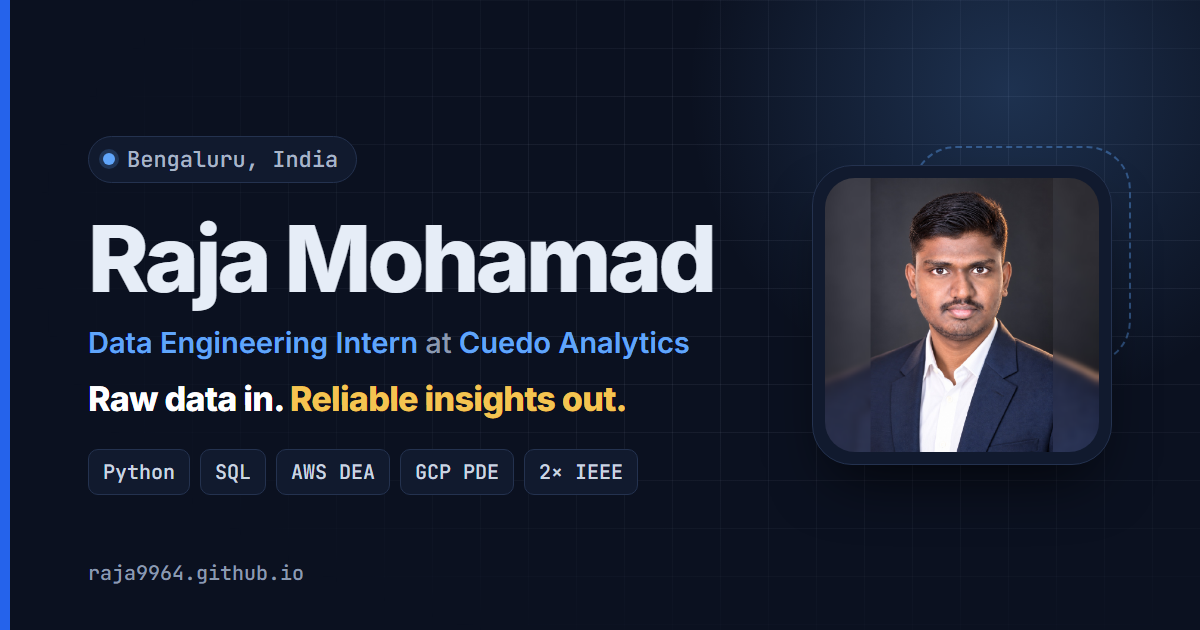
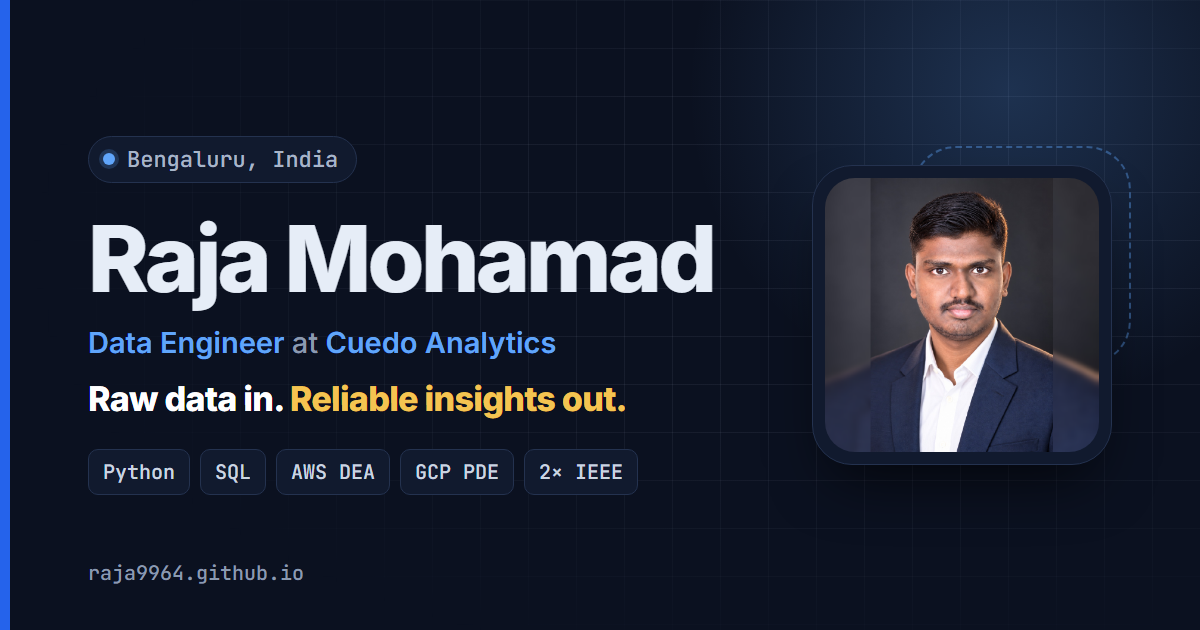
Update role to Data Engineer

Changed region(s): [[0.2158, 0.5127, 0.5858, 0.573]]

diff --git a/index.html b/index.html
@@ -4,7 +4,7 @@
   <meta charset="utf-8">
   <meta name="viewport" content="width=device-width, initial-scale=1">
   <title>Raja Mohamad | Data Engineering Portfolio</title>
-  <meta name="description" content="Raja Mohamad, Data Engineering Intern at Cuedo Analytics in Bengaluru. AWS Certified Data Engineer – Associate, Google Cloud Professional Data Engineer and co-author of two IEEE papers. Python, SQL, AWS and dbt pipelines.">
+  <meta name="description" content="Raja Mohamad, Data Engineer at Cuedo Analytics in Bengaluru. AWS Certified Data Engineer – Associate, Google Cloud Professional Data Engineer and co-author of two IEEE papers. Python, SQL, AWS and dbt pipelines.">
   <meta name="author" content="Raja Mohamad">
   <link rel="canonical" href="https://raja9964.github.io/">
   <meta name="color-scheme" content="light dark">
@@ -13,19 +13,19 @@
   <meta property="og:type" content="website">
   <meta property="og:site_name" content="Raja Mohamad">
   <meta property="og:title" content="Raja Mohamad | Data Engineering Portfolio">
-  <meta property="og:description" content="Data Engineering Intern at Cuedo Analytics. AWS + Google Cloud certified data engineering, 2× IEEE published. Raw data in. Reliable insights out.">
+  <meta property="og:description" content="Data Engineer at Cuedo Analytics. AWS + Google Cloud certified data engineering, 2× IEEE published. Raw data in. Reliable insights out.">
   <meta property="og:url" content="https://raja9964.github.io/">
   <meta property="og:image" content="https://raja9964.github.io/assets/img/og-image.png">
   <meta property="og:image:type" content="image/png">
   <meta property="og:image:width" content="1200">
   <meta property="og:image:height" content="630">
-  <meta property="og:image:alt" content="Raja Mohamad, Data Engineering Intern at Cuedo Analytics">
+  <meta property="og:image:alt" content="Raja Mohamad, Data Engineer at Cuedo Analytics">
   <meta property="og:locale" content="en_IN">
   <meta name="twitter:card" content="summary_large_image">
   <meta name="twitter:title" content="Raja Mohamad | Data Engineering Portfolio">
-  <meta name="twitter:description" content="Data Engineering Intern at Cuedo Analytics. AWS + Google Cloud certified data engineering, 2× IEEE published. Raw data in. Reliable insights out.">
+  <meta name="twitter:description" content="Data Engineer at Cuedo Analytics. AWS + Google Cloud certified data engineering, 2× IEEE published. Raw data in. Reliable insights out.">
   <meta name="twitter:image" content="https://raja9964.github.io/assets/img/og-image.png">
-  <meta name="twitter:image:alt" content="Raja Mohamad, Data Engineering Intern at Cuedo Analytics">
+  <meta name="twitter:image:alt" content="Raja Mohamad, Data Engineer at Cuedo Analytics">
 
   <link rel="icon" href="favicon.svg" type="image/svg+xml">
   <link rel="apple-touch-icon" href="assets/img/apple-touch-icon.png">
@@ -47,9 +47,9 @@
   <link rel="preconnect" href="https://fonts.gstatic.com" crossorigin>
   <link rel="stylesheet" href="https://fonts.googleapis.com/css2?family=Inter:wght@400;500;600;700;800&family=JetBrains+Mono:wght@500;600&display=swap">
   <link rel="preload" as="image" href="assets/img/avatar-460.webp" type="image/webp">
-  <link rel="stylesheet" href="assets/css/styles.css?v=20261005a">
-  <script src="assets/js/data.js?v=20261005a" defer></script>
-  <script src="assets/js/main.js?v=20261005a" defer></script>
+  <link rel="stylesheet" href="assets/css/styles.css?v=20261007a">
+  <script src="assets/js/data.js?v=20261007a" defer></script>
+  <script src="assets/js/main.js?v=20261007a" defer></script>
 </head>
 <body>
   <a class="skip-link" href="#main">Skip to content</a>

diff --git a/assets/js/data.js b/assets/js/data.js
@@ -1,7 +1,7 @@
 // All the content on the site lives here. Edit, save, refresh.
 window.SITE_DATA = {
   name: "Raja Mohamad",
-  role: "Data Engineering Intern",
+  role: "Data Engineer",
   company: "Cuedo Analytics",
   location: "Bengaluru, India",
   tagline: "Raw data in. Reliable insights out.",
@@ -36,14 +36,14 @@ window.SITE_DATA = {
   ],
 
   about: [
-    "I'm a Data Engineering Intern at Cuedo Analytics in Bengaluru. I build production data pipelines in Python and SQL that ingest and transform client datasets into PostgreSQL and Amazon Redshift.",
+    "I'm a Data Engineer at Cuedo Analytics in Bengaluru. I joined as a Data Engineering Intern in February 2026 and moved into a full-time role. I build production data pipelines in Python and SQL that ingest and transform client datasets into PostgreSQL and Amazon Redshift.",
     "The part I care about most is data people can trust. I write SQL validation and reconciliation checks between source and target systems, add data-quality checks and tune Redshift queries for analytical workloads.",
     "I hold the AWS Certified Data Engineer – Associate and Google Cloud Professional Data Engineer certifications, I've co-authored two IEEE conference papers, and I studied Computer Science and Engineering at Dayananda Sagar University (CGPA 9.16 / 10)."
   ],
 
   facts: [
     { label: "Based in", value: "Bengaluru, India", icon: "pin" },
-    { label: "Currently", value: "Data Engineering Intern, Cuedo Analytics", icon: "briefcase" },
+    { label: "Currently", value: "Data Engineer, Cuedo Analytics", icon: "briefcase" },
     { label: "Focus", value: "ETL / ELT pipelines, data warehousing, cloud data migration", icon: "pipeline" },
     { label: "Languages", value: "English, Hindi, Kannada", icon: "globe" }
   ],
@@ -79,13 +79,14 @@ window.SITE_DATA = {
 
   experience: [
     {
-      role: "Data Engineering Intern",
+      role: "Data Engineer",
       company: "Cuedo Analytics",
       location: "Bengaluru, India",
-      mode: "On-site internship",
+      mode: "Full-time · On-site",
       start: "Feb 2026",
       end: "Present",
       points: [
+        "Joined as a Data Engineering Intern in February 2026 and was converted to a full-time Data Engineer.",
         "Built production data pipelines in Python and SQL to ingest and transform client datasets into PostgreSQL and Amazon Redshift.",
         "Developed SQL validation and reconciliation checks across source and target systems to verify row counts, totals and data consistency.",
         "Implemented data-quality checks and optimized Redshift queries for analytical workloads.",

diff --git a/README.md b/README.md
@@ -1,6 +1,6 @@
 # raja9964.github.io
 
-Personal portfolio of Raja Mohamad, Data Engineering Intern in Bengaluru, India.
+Personal portfolio of Raja Mohamad, Data Engineer in Bengaluru, India.
 Live at https://raja9964.github.io
 
 Plain HTML, CSS and JavaScript. No build step and no dependencies.
